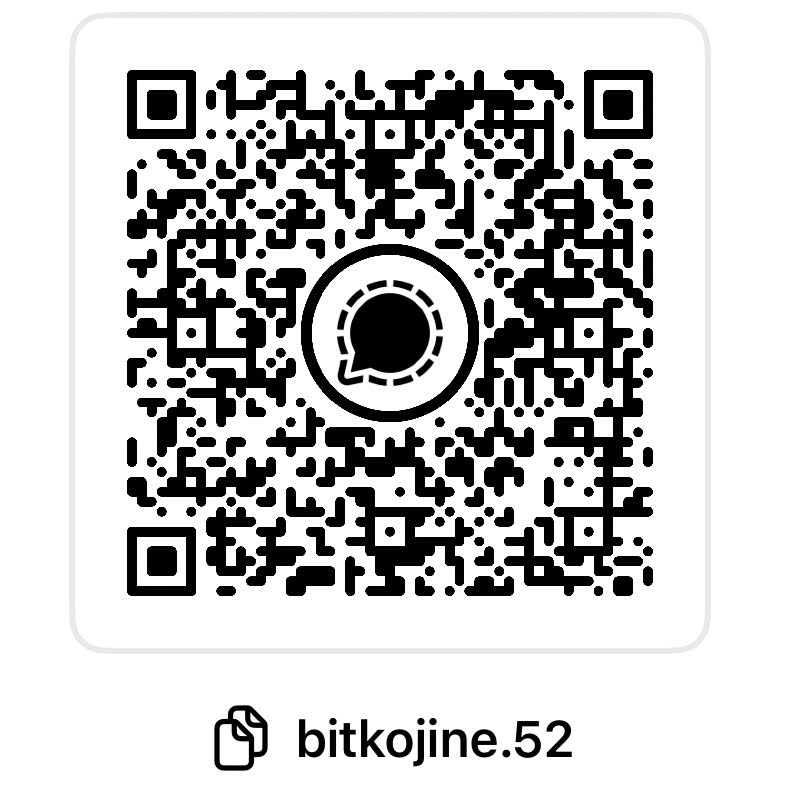
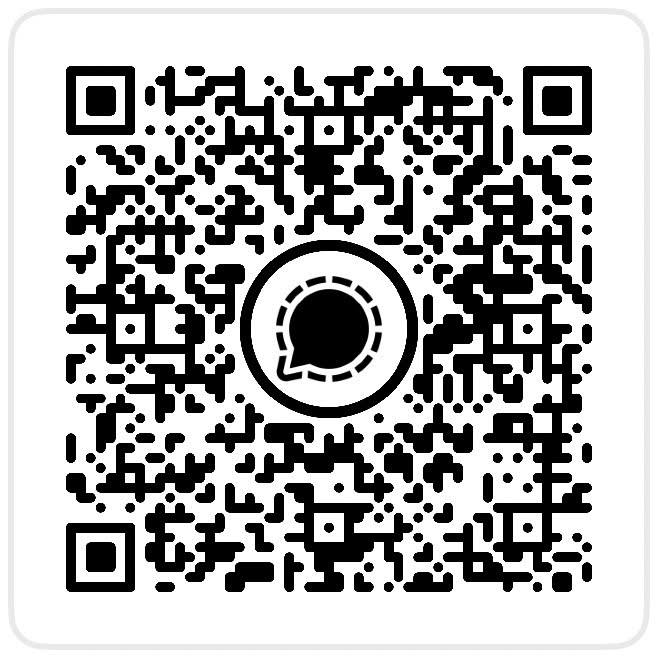
Update Signal info

diff --git a/README.md b/README.md
@@ -4,7 +4,15 @@
 hello
 ```
 
-💬 DM me on Signal:
+💬 DM me on Signal. Username and link:
+
+```
+bitkojine.52
+```
+
+```
+https://signal.me/#eu/1-PaXXpKPdw9dJolKQIBQY4Uz1JtgqIGAYUhYmmARVEQWIC_eJpDzp7UXWPTkDJu
+```
 
 <img src="images/signal.jpg" alt="Signal messenger QR code" width="300">
 
